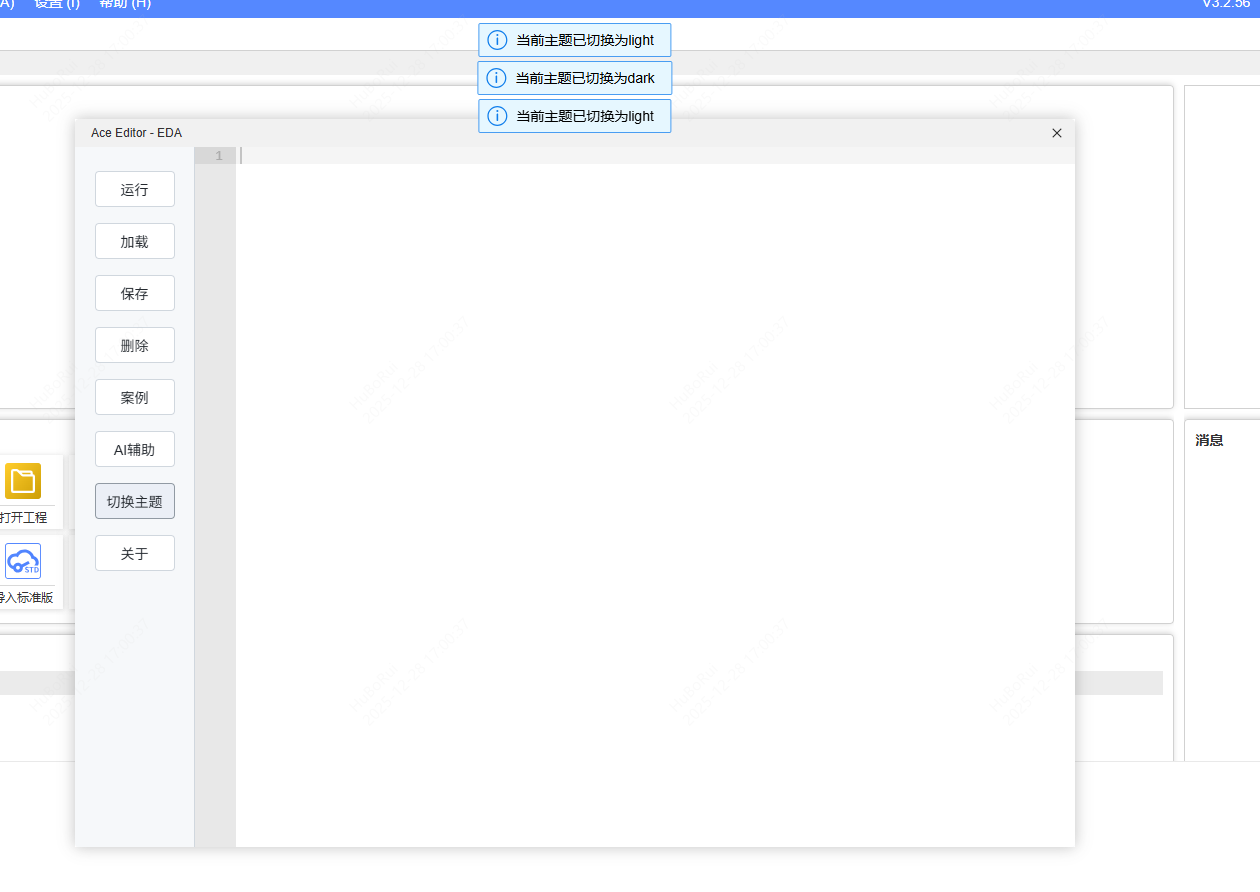
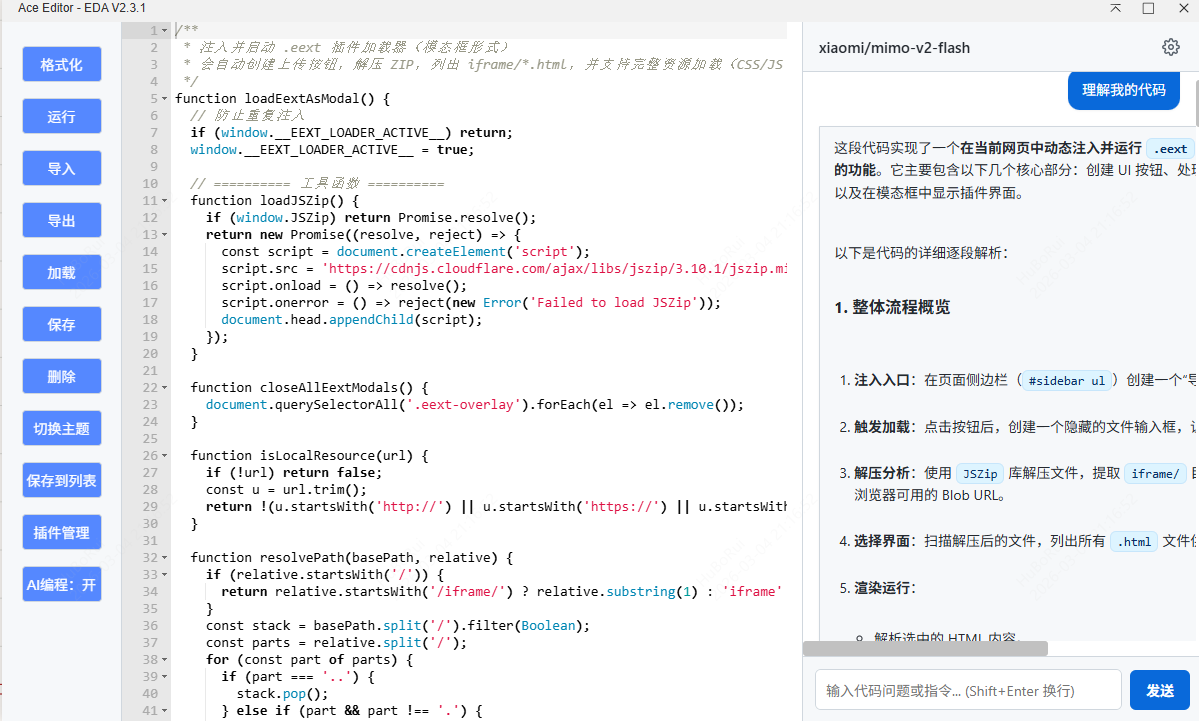
增加MCP：代码理解

diff --git a/iframe/script/User_config/Ai_Chat.js b/iframe/script/User_config/Ai_Chat.js
@@ -247,8 +247,8 @@ function initAiChat() {
 
 	// --- 核心发送逻辑 ---
 	async function handleSend() {
-		const text = inputArea.value.trim();
-		if (!text) return;
+		const rawText = inputArea.value.trim();
+		if (!rawText) return;
 
 		if (!chatConfig.apiKey) {
 			alert('请先配置 API Key');
@@ -256,12 +256,52 @@ function initAiChat() {
 			return;
 		}
 
-		appendMessage('user', text);
+		// --- 新增逻辑：检测“理解代码”类指令并自动获取编辑器内容 ---
+		let finalUserText = rawText;
+		const codeKeywords = [
+			'理解我的代码',
+			'分析这段代码',
+			'解释代码',
+			'看我的代码',
+			'帮我优化代码',
+			'代码有什么问题',
+			'检查代码错误',
+			'重构这段代码',
+		];
+
+		// 检查是否触发自动获取代码逻辑
+		const shouldFetchCode = codeKeywords.some((keyword) => rawText.includes(keyword));
+
+		if (shouldFetchCode) {
+			// 检查 editor 对象是否存在且可用 (确保 editor 已在全局或当前作用域初始化)
+			if (typeof editor !== 'undefined' && editor && typeof editor.getValue === 'function') {
+				const currentCode = editor.getValue();
+
+				if (!currentCode || currentCode.trim() === '') {
+					// 如果编辑器为空，给予提示
+					finalUserText = `${rawText}\n\n[注意：当前编辑器内容为空，无法提供代码供你分析。]`;
+				} else {
+					// 构造包含代码的完整提示词
+					// 格式：用户指令 + 分隔符 + 代码块
+					finalUserText = `${rawText}\n\n以下是当前编辑器中的代码:\n\`\`\`\n${currentCode}\n\`\`\``;
+					console.log('已自动抓取编辑器代码并附加到请求中');
+				}
+			} else {
+				console.warn('未检测到 editor 对象，无法自动获取代码。请确保 editor 已全局初始化。');
+				// 如果 editor 不存在，保持原样发送，依靠用户手动粘贴
+			}
+		}
+		// --- 新增逻辑结束 ---
+
+		// 界面上显示用户原始输入
+		appendMessage('user', rawText);
 		inputArea.value = '';
 		inputArea.style.height = 'auto';
 
 		const loadingElements = appendMessage('system', '', false, true);
-		const currentMessages = [...messageHistory, { role: 'user', content: text }];
+
+		// 发送时使用 finalUserText (可能包含自动注入的代码)
+		const currentMessages = [...messageHistory, { role: 'user', content: finalUserText }];
 
 		let aiBubble = null;
 		let fullResponse = '';
@@ -281,7 +321,7 @@ function initAiChat() {
 				body: JSON.stringify({
 					model: chatConfig.model,
 					messages: currentMessages,
-					stream: false,
+					stream: false, // 注意：原代码此处强制为 false，实际使用模拟流式
 					temperature: 0.7,
 				}),
 			});
@@ -323,7 +363,6 @@ function initAiChat() {
 									hljs.highlightElement(block);
 								});
 							}
-							// 打字结束后添加复制按钮
 							addCopyButtons(aiBubble);
 						}
 						chatList.scrollTop = chatList.scrollHeight;
@@ -338,7 +377,8 @@ function initAiChat() {
 
 			function finishProcess() {
 				if (chatConfig.multiTurn) {
-					messageHistory.push({ role: 'user', content: text });
+					// 存入历史记录时使用 finalUserText 以保持上下文（包含代码）
+					messageHistory.push({ role: 'user', content: finalUserText });
 					messageHistory.push({ role: 'assistant', content: fullResponse });
 					if (messageHistory.length > 20) messageHistory = messageHistory.slice(-20);
 				}

diff --git a/iframe/main/index.html b/iframe/main/index.html
@@ -119,7 +119,7 @@
 			//注册EDA智能补全
 			ACE_CodingForEDA(editor, edcode);
 
-			//加载自动缓存
+			//自动缓存
 			editor.session.on('change', function () {
 				eda.sys_Storage.setExtensionUserConfig('editor_value', editor.getValue());
 			});

diff --git a/README.md b/README.md
@@ -6,19 +6,11 @@
 
 ## 中文联想支持
 
-![alt text](images/效果图1.png)
-
 ## AI智能注释
-
-![alt text](images/效果图2.png)
 
 ## AI智能报错分析
 
-![alt text](images/效果图4.png)
-
 ## 两套主题流畅切换
-
-![alt text](images/image.png)
 
 ## 通过npm run dev 构建全新的提示词工程
 
